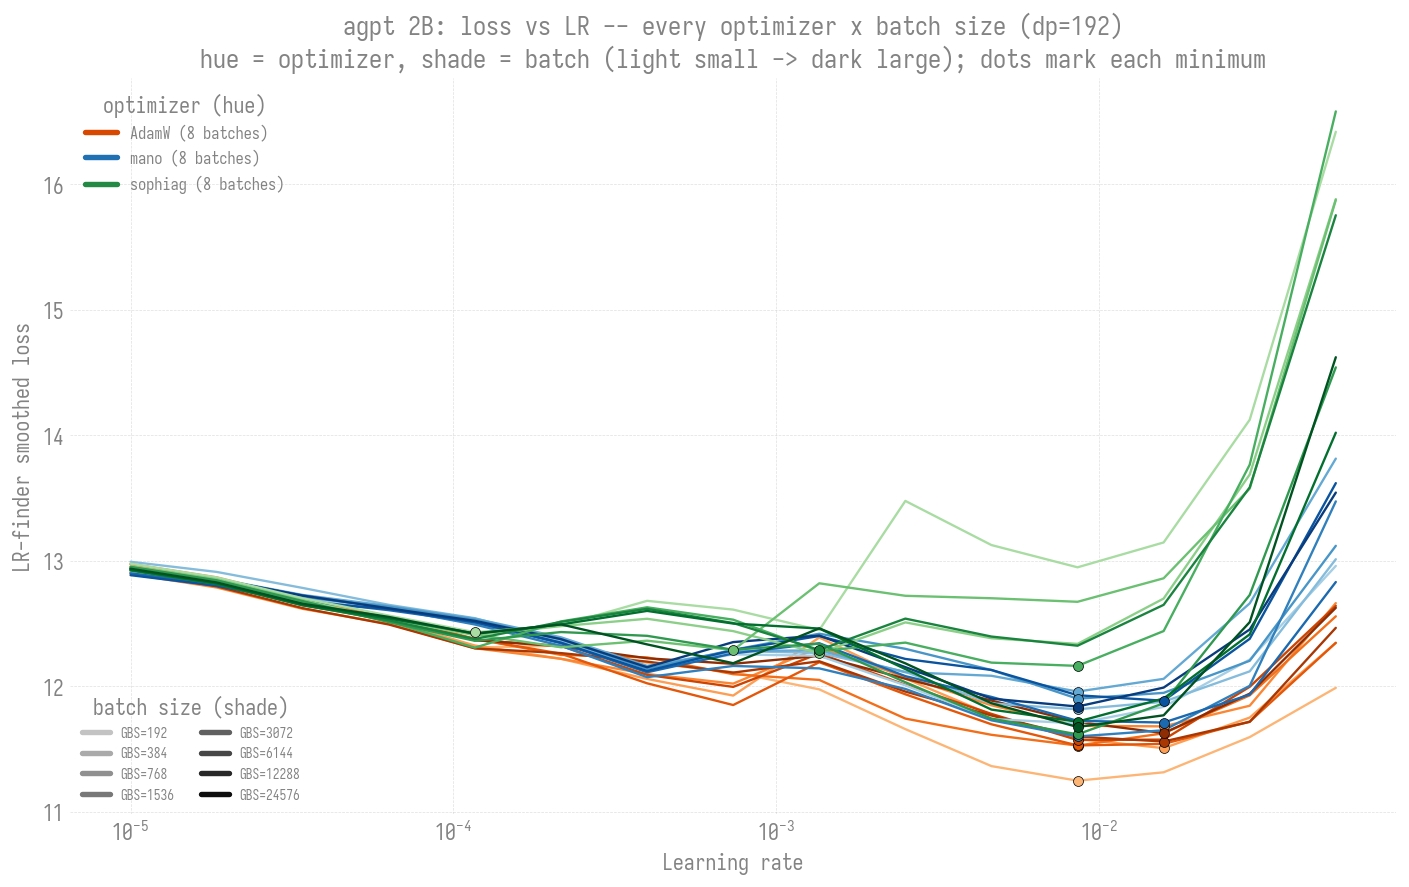
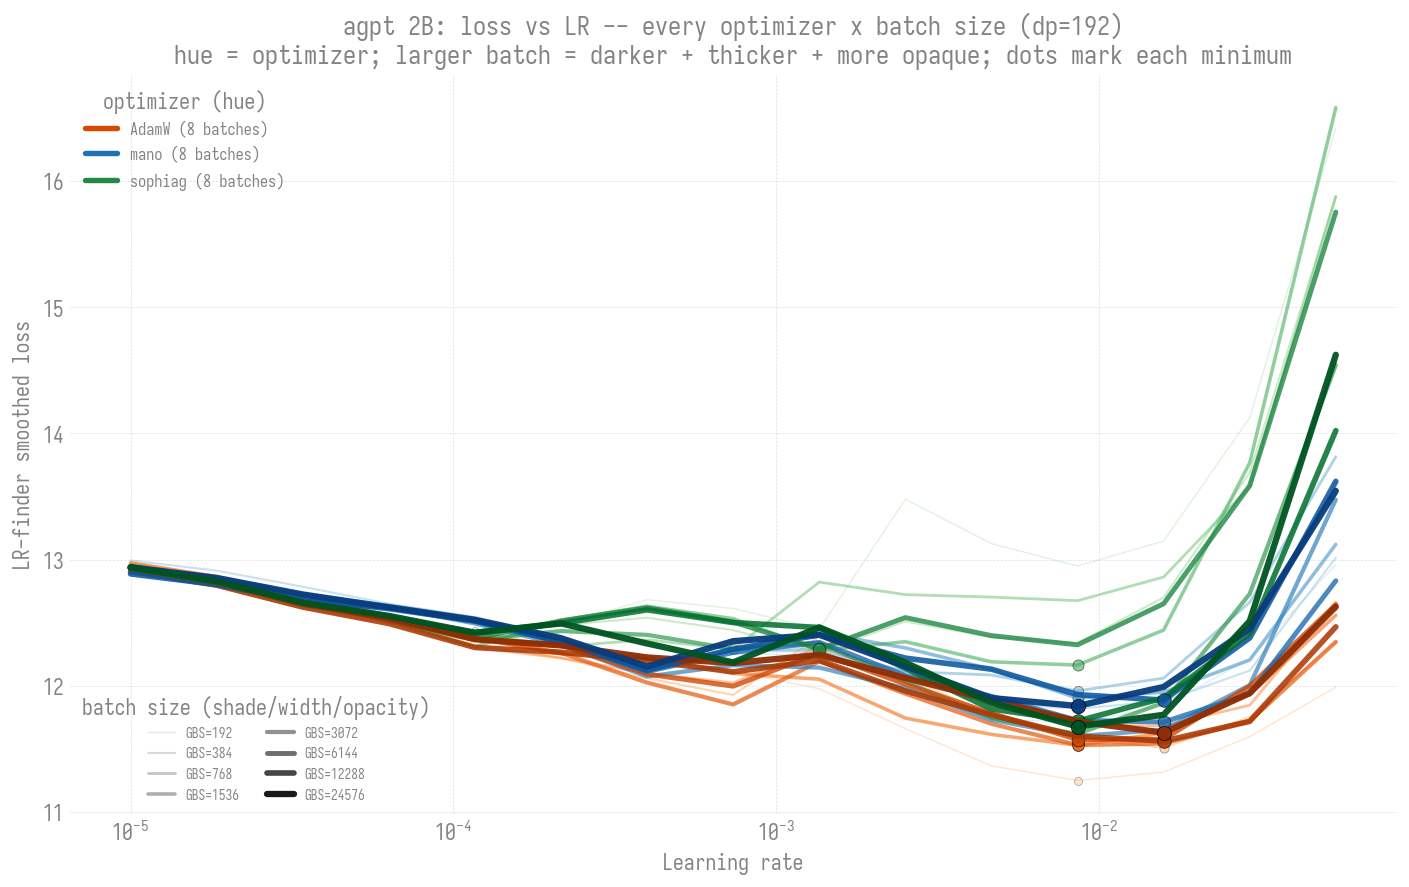
docs(ezpz/lr-finder): triple-encode batch size in combined plot (shade+width+opacity)
plot_all_opts_all_gbs: batch size now drives THREE channels (all keyed off the
same rank), not just shade -- larger batch = darker + thicker + more opaque,
small batch = faint/thin. Draw order + zorder put large-batch curves on top.
This foregrounds the production-relevant batches and lets the noisy small-batch
curves recede to context. Legend swatches + title updated to match. Regenerated
2B (24 curves) and 20B (partial) figures.

diff --git a/torchtitan/experiments/ezpz/scripts/plot_lr_trend.py b/torchtitan/experiments/ezpz/scripts/plot_lr_trend.py
@@ -172,12 +172,20 @@ def plot_all_opts_all_gbs(out: Path, model: str = "2b") -> None:
     gbs_list = GBS_2B
     opts = ("adamw", "mano", "sophiag")
     n = len(gbs_list)
-    # shade ramp [0.35, 0.95] (skip near-white so small-GBS curves show)
-    shade = {g: 0.35 + 0.60 * (i / max(1, n - 1)) for i, g in enumerate(gbs_list)}
+    # Three ramps, all keyed off batch-size rank r in [0,1] (small -> large),
+    # so large batch = darker + thicker + more opaque (foregrounds the
+    # production-relevant curves; small/noisy batches recede).
+    def _rank(i):
+        return i / max(1, n - 1)
+    shade = {g: 0.35 + 0.60 * _rank(i) for i, g in enumerate(gbs_list)}
+    width = {g: 0.8 + 2.7 * _rank(i) for i, g in enumerate(gbs_list)}   # 0.8 -> 3.5 pt
+    alpha = {g: 0.35 + 0.60 * _rank(i) for i, g in enumerate(gbs_list)}  # 0.35 -> 0.95
     fig, ax = plt.subplots(figsize=(11, 7))
     plotted = {o: 0 for o in opts}
     for opt in opts:
         cmap = plt.get_cmap(_OPT_CMAP[opt])
+        # draw small-batch (thin/faint) first so the thick opaque large-batch
+        # lines land on top.
         for g in gbs_list:
             p = _csv_for(model, g, opt)
             if not Path(p).exists():
@@ -185,25 +193,29 @@ def plot_all_opts_all_gbs(out: Path, model: str = "2b") -> None:
             fx, fy = _finite(*load_curve(p))
             if not fx:
                 continue
-            ax.plot(fx, fy, "-", lw=1.3, color=cmap(shade[g]), zorder=2)
+            i = gbs_list.index(g)
+            ax.plot(fx, fy, "-", lw=width[g], alpha=alpha[g],
+                    color=cmap(shade[g]), zorder=2 + i)
             mi = min(range(len(fy)), key=lambda k: fy[k])
-            ax.scatter([fx[mi]], [fy[mi]], s=30, color=cmap(shade[g]),
-                       edgecolor="k", linewidth=0.4, zorder=3)
+            ax.scatter([fx[mi]], [fy[mi]], s=20 + 6 * i, alpha=alpha[g],
+                       color=cmap(shade[g]), edgecolor="k", linewidth=0.4,
+                       zorder=2 + i + 0.5)
             plotted[opt] += 1
     ax.set_xscale("log")
     ax.set_xlabel("Learning rate")
     ax.set_ylabel("LR-finder smoothed loss")
     ax.set_title(f"agpt {model.upper()}: loss vs LR -- every optimizer x batch "
-                 f"size (dp=192)\nhue = optimizer, shade = batch (light small -> "
-                 f"dark large); dots mark each minimum")
+                 f"size (dp=192)\nhue = optimizer; larger batch = darker + "
+                 f"thicker + more opaque; dots mark each minimum")
     opt_handles = [
         Line2D([0], [0], color=plt.get_cmap(_OPT_CMAP[o])(0.75), lw=3,
                label=f"{OPT_LABEL[o]} ({plotted[o]} batches)")
         for o in opts if plotted[o]
     ]
+    # batch-size swatches mirror the plot encoding (shade + width + alpha)
     gbs_handles = [
-        Line2D([0], [0], color=plt.get_cmap("Greys")(shade[g]), lw=3,
-               label=f"GBS={g}")
+        Line2D([0], [0], color=plt.get_cmap("Greys")(shade[g]),
+               lw=width[g], alpha=alpha[g], label=f"GBS={g}")
         for g in gbs_list
         if any(Path(_csv_for(model, g, o)).exists() for o in opts)
     ]
@@ -211,7 +223,7 @@ def plot_all_opts_all_gbs(out: Path, model: str = "2b") -> None:
                      title="optimizer (hue)")
     ax.add_artist(leg1)
     ax.legend(handles=gbs_handles, fontsize=7.5, loc="lower left",
-              title="batch size (shade)", ncol=2)
+              title="batch size (shade/width/opacity)", ncol=2)
     fig.tight_layout()
     fig.savefig(out, dpi=130, bbox_inches="tight")
     plt.close(fig)
